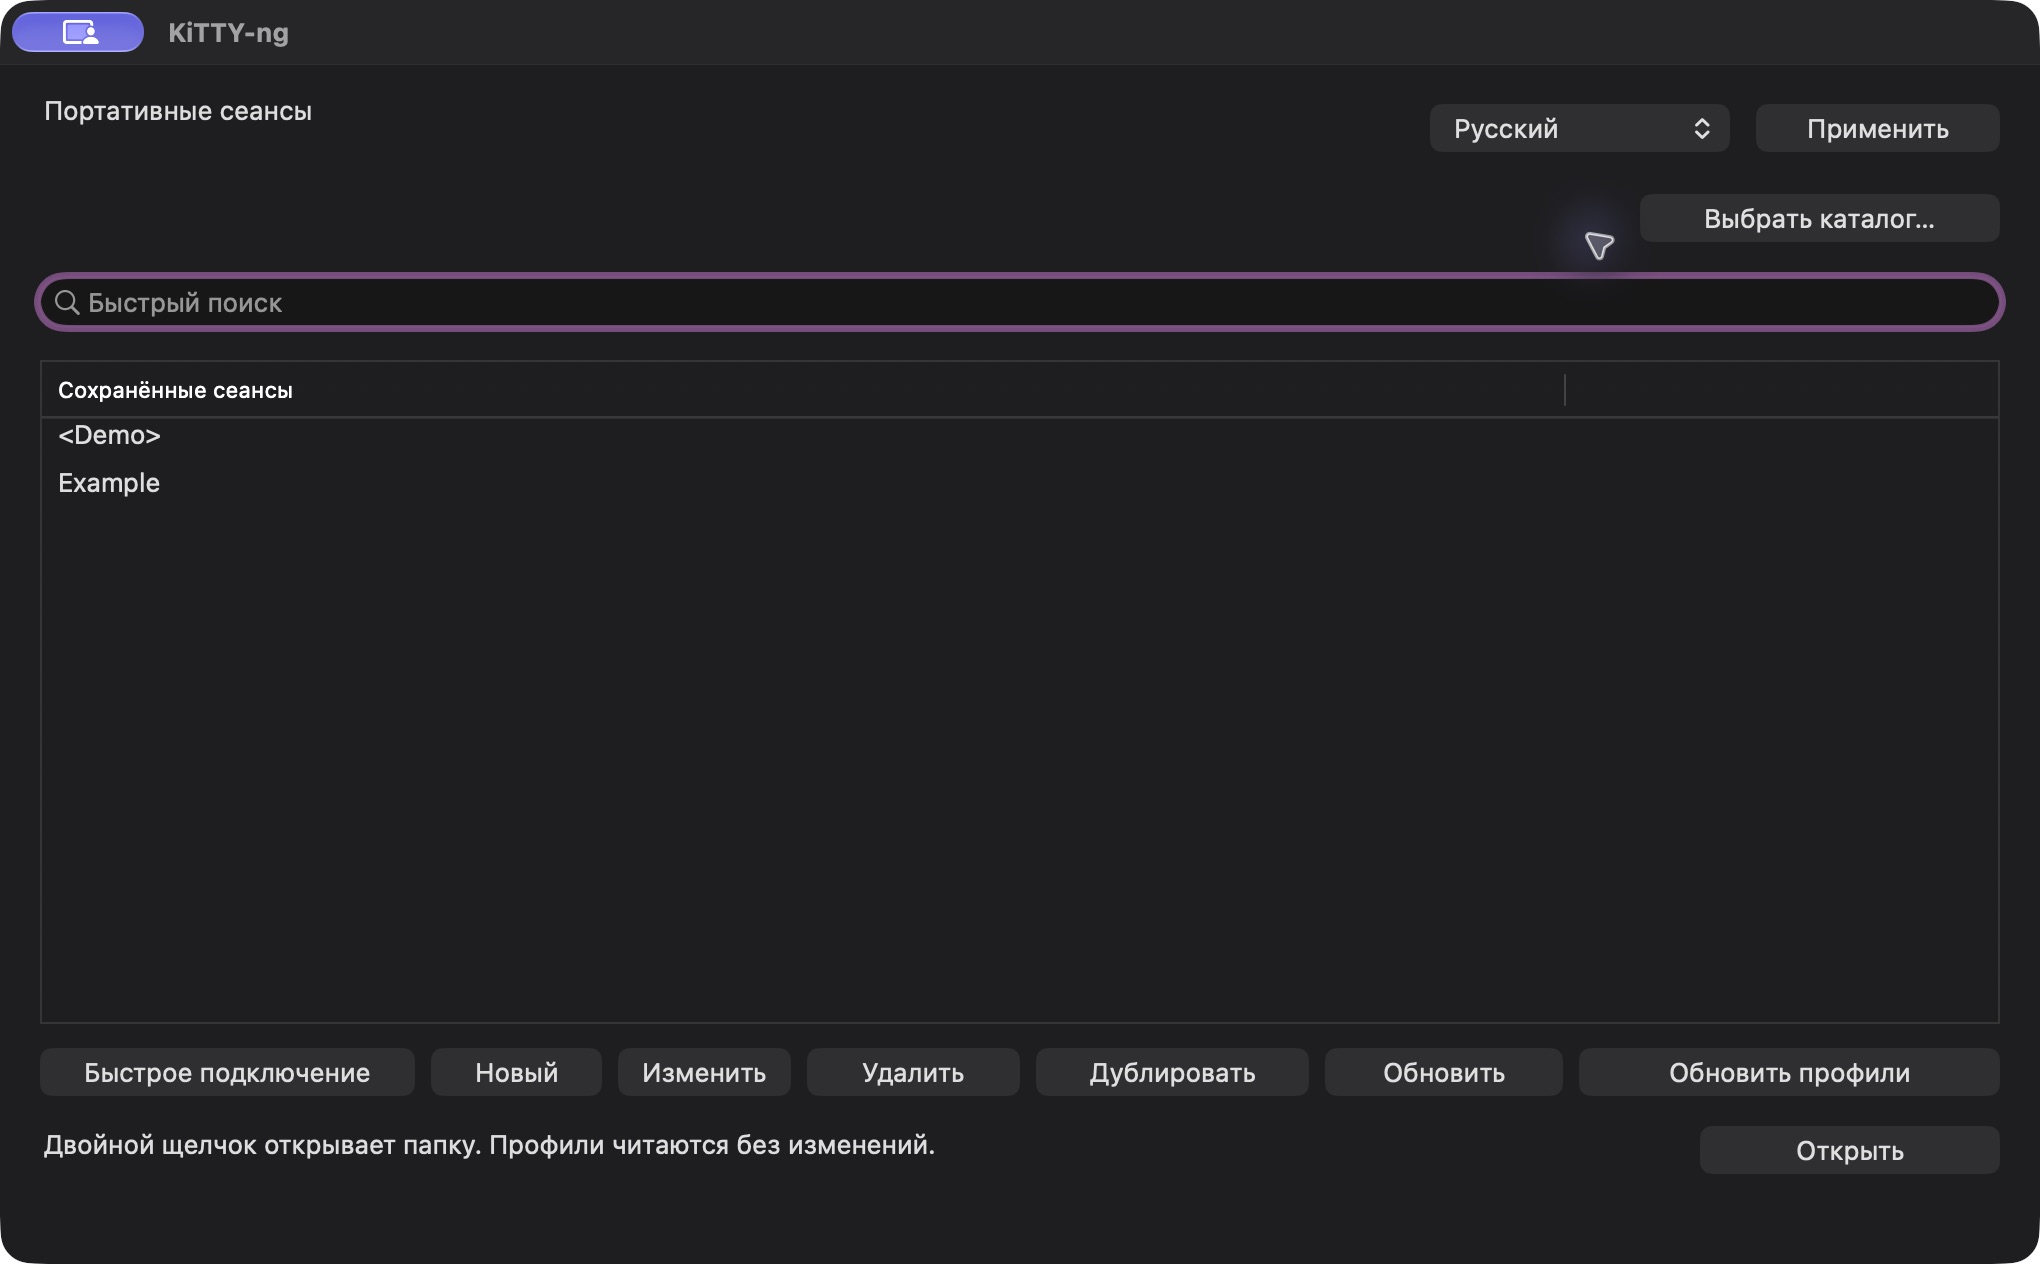
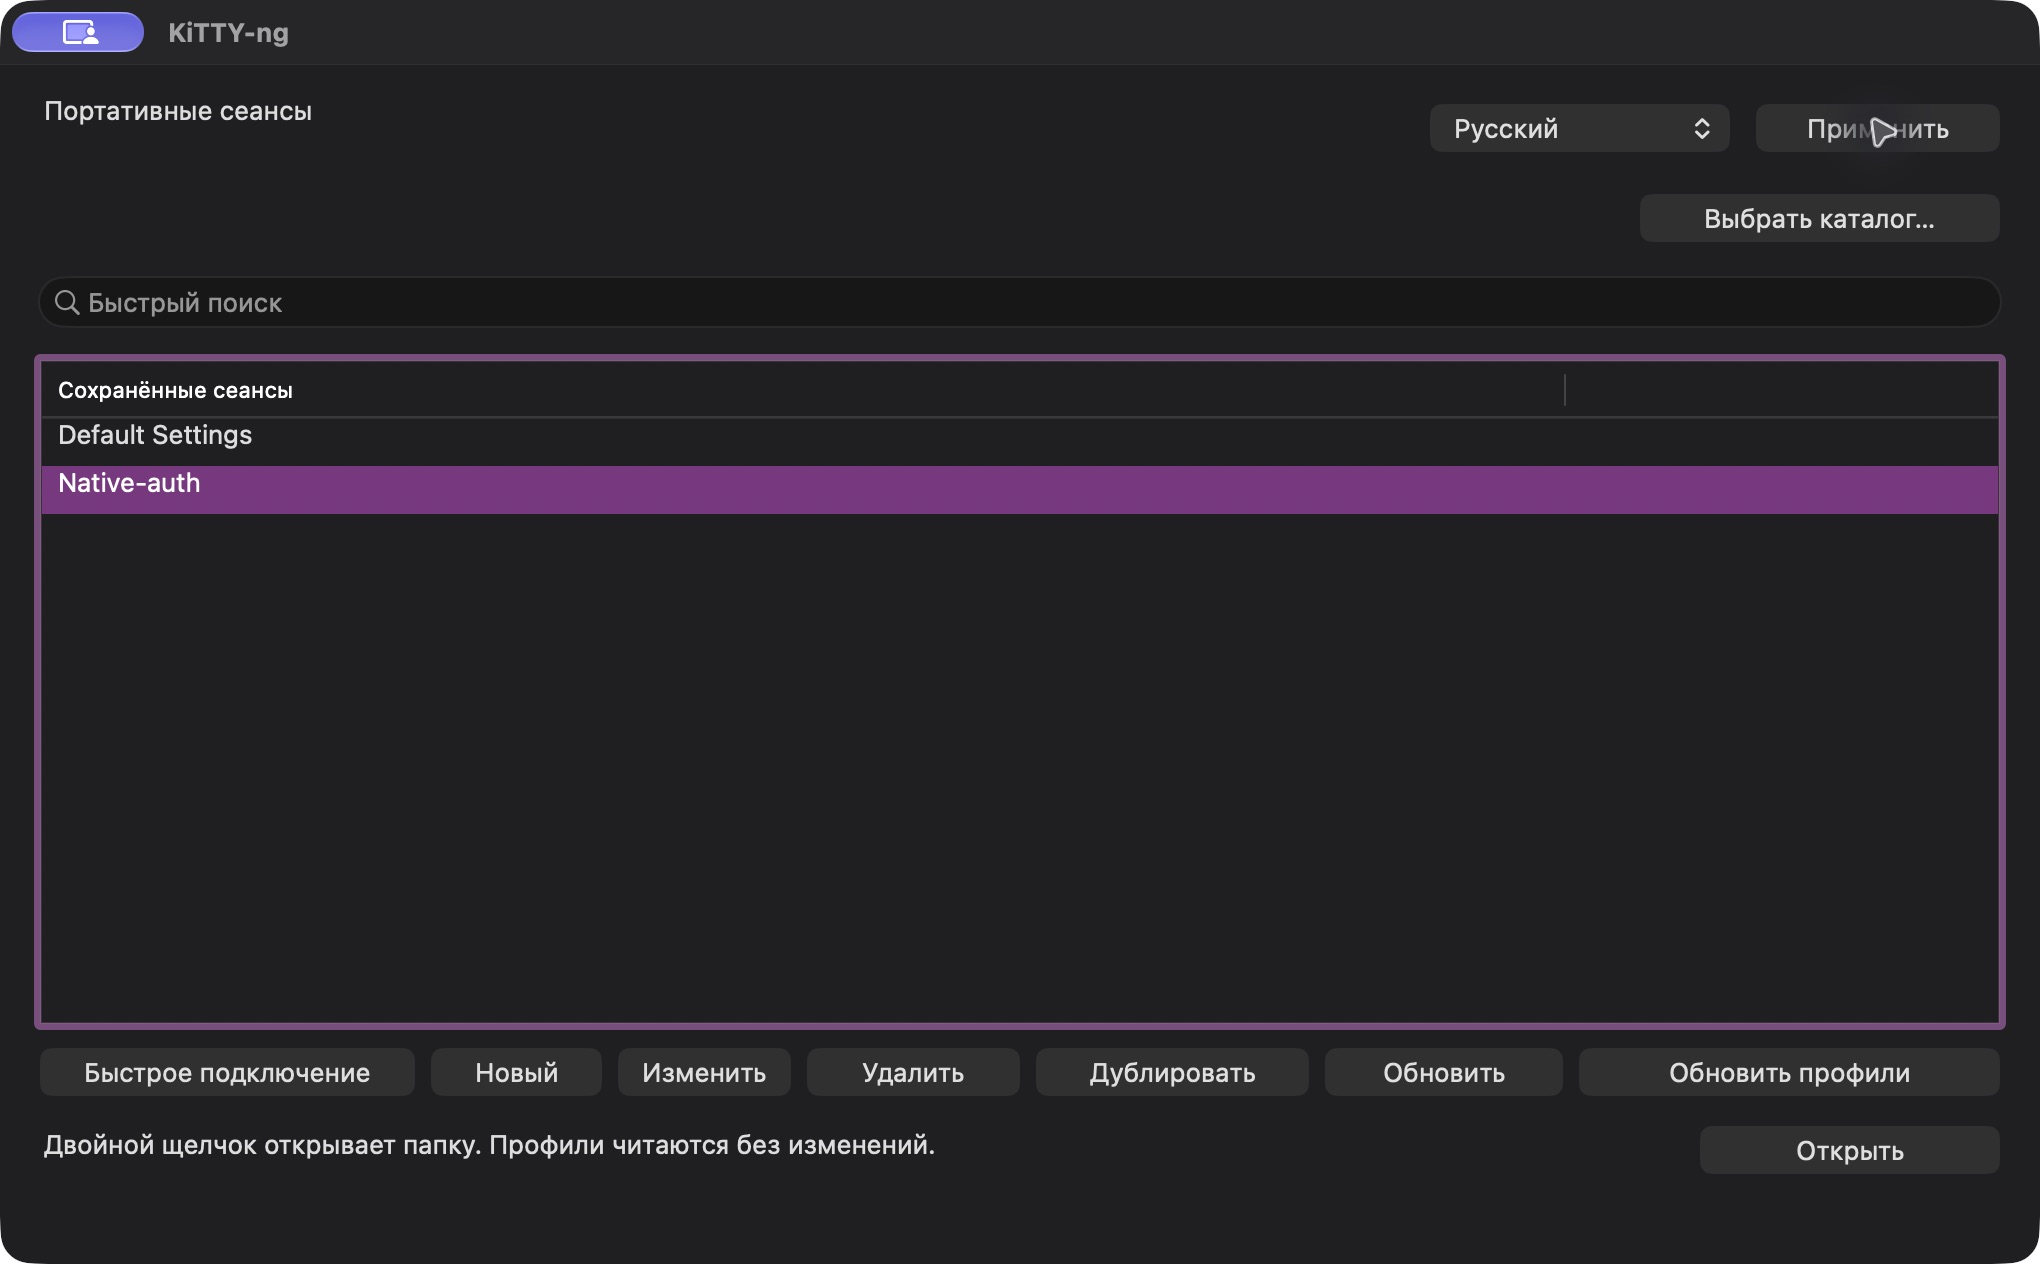
Document macOS Universal 2 for KiTTY-ng 0.85-13

Changed region(s): [[0.0, 0.1851, 0.9882, 0.8331], [0.8956, 0.0926, 0.9265, 0.1234]]

diff --git a/README.md b/README.md
@@ -14,7 +14,7 @@ KiTTY-ng развивает возможности KiTTY на современн
 
 ## Скачать
 
-В выпуске **0.85-13** доступны пакеты Windows и Linux. macOS Universal DMG готовится отдельно.
+В выпуске **0.85-13** доступны пакеты Windows, Linux и macOS Universal 2.
 
 | Платформа | Сборка 0.85-13 | Запуск |
 | --- | --- | --- |
@@ -22,7 +22,7 @@ KiTTY-ng развивает возможности KiTTY на современн
 | Windows x64 | [ZIP](https://github.com/nr084/kitty-ng/releases/download/v0.85-13/kitty-ng-0.85-13-x64.zip) | `kitty-ng-x64.exe` |
 | Windows x86 | [ZIP](https://github.com/nr084/kitty-ng/releases/download/v0.85-13/kitty-ng-0.85-13-x86.zip) | `kitty-ng-x86.exe` |
 | Windows arm64 | [ZIP](https://github.com/nr084/kitty-ng/releases/download/v0.85-13/kitty-ng-0.85-13-arm64.zip) | `kitty-ng-arm64.exe` |
-| macOS 13+ · Intel / Apple Silicon | Universal DMG готовится | `KiTTY-ng.app` |
+| macOS 13+ · Intel / Apple Silicon | [Universal DMG](https://github.com/nr084/KiTTY-ng/releases/download/v0.85-13/kitty-ng-0.85-13-macos-universal.dmg) | `KiTTY-ng.app` |
 
 [Все релизы и контрольные суммы](https://github.com/nr084/kitty-ng/releases). В комплекте клиент и пять утилит. Имена Windows EXE содержат архитектуру; версия указана внутри программ и в именах архивов.
 

diff --git a/README.en.md b/README.en.md
@@ -14,7 +14,7 @@ KiTTY-ng develops KiTTY's features on the modern **PuTTY 0.85** codebase. Manage
 
 ## Download
 
-Release **0.85-13** includes Windows and Linux packages. The macOS Universal DMG is being prepared separately.
+Release **0.85-13** includes Windows, Linux, and macOS Universal 2 packages.
 
 | Platform | Release 0.85-13 | Launch |
 | --- | --- | --- |
@@ -22,7 +22,7 @@ Release **0.85-13** includes Windows and Linux packages. The macOS Universal DMG
 | Windows x64 | [ZIP](https://github.com/nr084/kitty-ng/releases/download/v0.85-13/kitty-ng-0.85-13-x64.zip) | `kitty-ng-x64.exe` |
 | Windows x86 | [ZIP](https://github.com/nr084/kitty-ng/releases/download/v0.85-13/kitty-ng-0.85-13-x86.zip) | `kitty-ng-x86.exe` |
 | Windows arm64 | [ZIP](https://github.com/nr084/kitty-ng/releases/download/v0.85-13/kitty-ng-0.85-13-arm64.zip) | `kitty-ng-arm64.exe` |
-| macOS 13+ · Intel / Apple Silicon | Universal DMG pending | `KiTTY-ng.app` |
+| macOS 13+ · Intel / Apple Silicon | [Universal DMG](https://github.com/nr084/KiTTY-ng/releases/download/v0.85-13/kitty-ng-0.85-13-macos-universal.dmg) | `KiTTY-ng.app` |
 
 [All releases and checksums](https://github.com/nr084/kitty-ng/releases). Each package includes the client and five utilities. Windows EXE names include their architecture; versions are embedded in the programs and included in archive names.
 

diff --git a/docs/releases/0.85-13.md b/docs/releases/0.85-13.md
@@ -5,4 +5,6 @@
 - Исправлено оформление флажков, стрелок подменю и списков порядка алгоритмов SSH в Windows.
 - Заголовок окна доверенных УЦ серверов использует имя KiTTY-ng и общий каталог переводов.
 
-macOS Universal DMG готовится отдельно.
+**macOS Universal 2 готова.** [Universal DMG](https://github.com/nr084/KiTTY-ng/releases/download/v0.85-13/kitty-ng-0.85-13-macos-universal.dmg)
+
+На Mac клавиша в отключённом терминале запускает переподключение в той же вкладке. Через три секунды без соединения попытка отменяется. При перестановке мышью вкладка выделяется синим фоном и рамкой.
